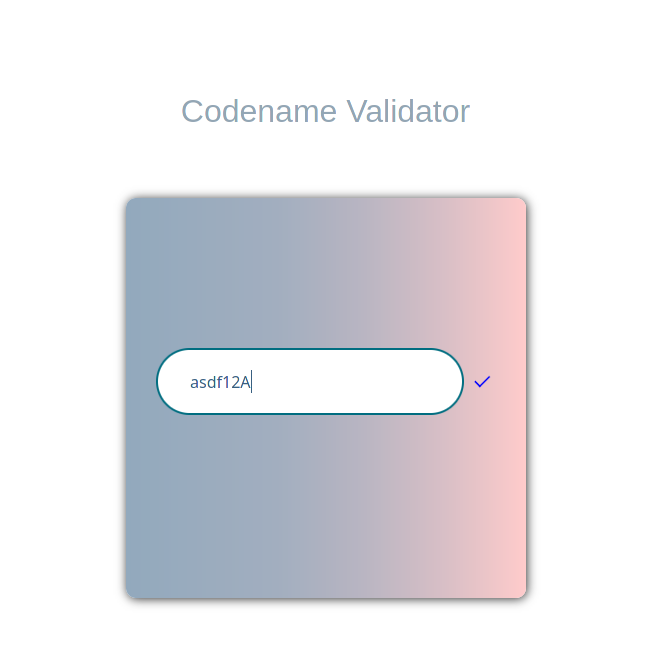
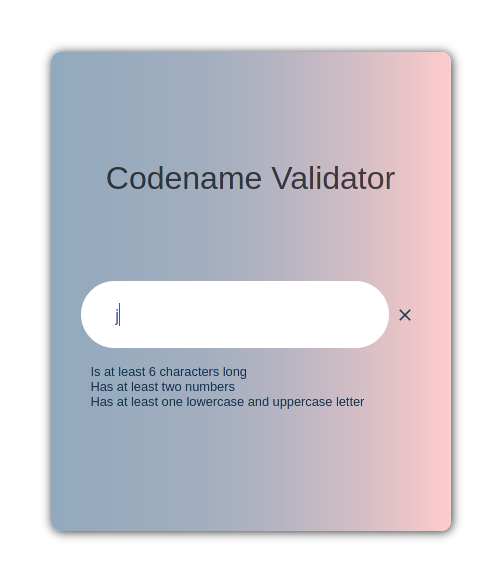
Improve codename__requirements and codename__input overflow issues

diff --git a/dom-manipulation/style.css b/dom-manipulation/style.css
@@ -3,7 +3,7 @@
   --secondary-color: linear-gradient(90deg, #92a9bd, 70%, #ffcbcb);
   --tertiary-color: #11324d;
   --codename-input-border: 2px solid;
-  --codename-section-width: clamp(150px, 90vw, 25rem);
+  --codename-section-width: clamp(150px, 70vw, 25rem);
 }
 
 body {
@@ -44,9 +44,8 @@ h1 {
 }
 
 .codename__input {
+  width: clamp(1rem, 80%, 20rem);
   background-color: transparent;
-  padding: 5% 8%;
-  padding-left: 1rem;
   border: var(--codename-input-border);
   border-color: transparent;
   border-radius: 4rem;
@@ -135,7 +134,7 @@ h1 {
 }
 
 .codename__requirements-list {
-  width: 90%;
+  width: 80%;
   min-height: 4rem;
   user-select: none;
   list-style: circle;
@@ -145,6 +144,11 @@ li {
   width: 100%;
   font-size: 0.8rem;
   color: var(--tertiary-color);
+}
+
+li::before {
+  content: "-";
+  padding: 0 0.2rem;
 }
 
 /* Valid */

diff --git a/dom-manipulation/Validations.js b/dom-manipulation/Validations.js
@@ -7,9 +7,9 @@ const hasNumbers = (str) => (str.match(/[0-9]/g) || []).length >= 2;
 
 function startValidation() {
   const validations = {
-    "Is at least 6 characters long": checkLength(inputEl.value),
-    "Has at least two numbers": hasNumbers(inputEl.value),
-    "Has at least one lowercase and uppercase letter": hasLowerUppercase(
+    "Is at least 6 characters long.": checkLength(inputEl.value),
+    "Has at least two numbers.": hasNumbers(inputEl.value),
+    "Has at least one lowercase and uppercase letter.": hasLowerUppercase(
       inputEl.value
     ),
   };
